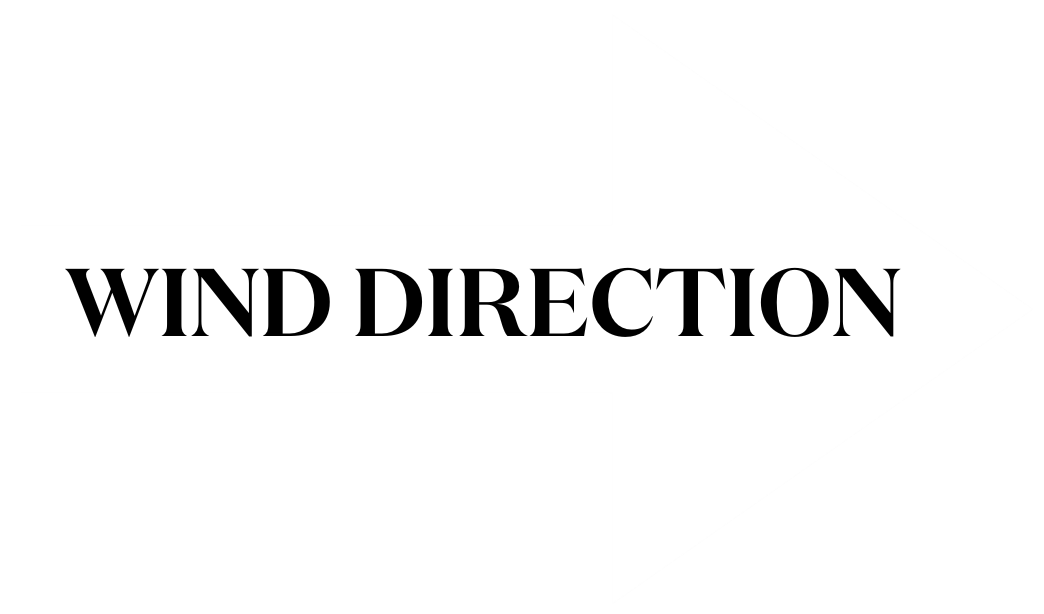
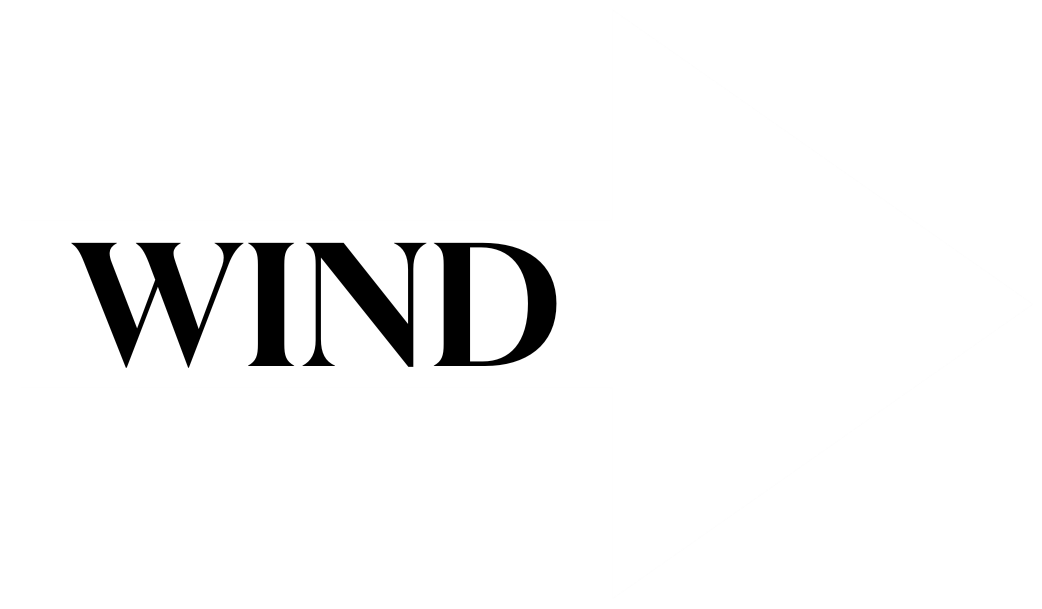
Fixed error where variable wind causes program to fail

Changed region(s): [[0.0614, 0.3744, 0.8599, 0.624]]

diff --git a/update_playlist_metar.py b/update_playlist_metar.py
@@ -149,6 +149,7 @@ def get_metar():
     #    "METAR KLOU 021753Z 06008G22KT 10SM +RA -TSRA FZFG FZHZ FZBR FEW123 OVC456 02/M03 A3029 RMK AO2 SLP261 T00221028 10028 20011 58016")
     # metar = Metar(
     #    "METAR KLOU 021753Z 09008G22KT 10SM  FEW123 OVC456 02/M03 A3029 RMK AO2 SLP261 T00221028 10028 20011 58016")
+    # metar = Metar("KLOU 311453Z VRB05KT 10SM FEW013 BKN044 04/02 A3019 RMK AO2 SLP227 T00440017 51011")
 
     # metar_decoded = metar.string()
     return metar
@@ -183,30 +184,32 @@ def create_image(metar):
     runways = runways.resize((rwy_size_base, int(runways.size[1] * (rwy_size_base / runways.size[0]))))
     img.alpha_composite(runways, rwy_pos_base)
 
-    arrow = Image.open("image_bases/white_arrow.png")
-    arrow = arrow.resize((150, int(arrow.size[1] * (150 / arrow.size[0]))))
-    # Rotates arrow in wind direction, taking into account the way the arrow is already facing
-    arrow = arrow.rotate(-(90 + metar.wind_dir.value()), expand=True)
+    if metar.wind_dir is not None:
 
-    rwy_width, rwy_height = runways.size
-    rwy_pos_x = rwy_pos_base[0] + rwy_width // 2
-    rwy_pos_y = rwy_pos_base[1] + rwy_height // 2
+        arrow = Image.open("image_bases/white_arrow.png")
+        arrow = arrow.resize((150, int(arrow.size[1] * (150 / arrow.size[0]))))
+        # Rotates arrow in wind direction, taking into account the way the arrow is already facing
+        arrow = arrow.rotate(-(90 + metar.wind_dir.value()), expand=True)
 
-    arrow_width, arrow_height = arrow.size
+        rwy_width, rwy_height = runways.size
+        rwy_pos_x = rwy_pos_base[0] + rwy_width // 2
+        rwy_pos_y = rwy_pos_base[1] + rwy_height // 2
 
-    # Calculate the center coordinates of the image to paste
-    arrow_center_x = arrow_width // 2
-    arrow_center_y = arrow_height // 2
+        arrow_width, arrow_height = arrow.size
 
-    # Offsets arrow from center of runway image based on wind direction
-    base_center = [rwy_pos_x - arrow_center_x, rwy_pos_y - arrow_center_y]
-    offset_amt = 330
-    wind_radians = math.radians(metar.wind_dir.value())
-    base_center[0] += round(offset_amt * math.sin(wind_radians))
-    base_center[1] -= round(offset_amt * math.cos(wind_radians))
-    base_center = tuple(base_center)
+        # Calculate the center coordinates of the image to paste
+        arrow_center_x = arrow_width // 2
+        arrow_center_y = arrow_height // 2
 
-    img.alpha_composite(arrow, base_center)
+        # Offsets arrow from center of runway image based on wind direction
+        base_center = [rwy_pos_x - arrow_center_x, rwy_pos_y - arrow_center_y]
+        offset_amt = 330
+        wind_radians = math.radians(metar.wind_dir.value())
+        base_center[0] += round(offset_amt * math.sin(wind_radians))
+        base_center[1] -= round(offset_amt * math.cos(wind_radians))
+        base_center = tuple(base_center)
+
+        img.alpha_composite(arrow, base_center)
 
     font_size = 50
     font = ImageFont.truetype(r"C:/Windows/Fonts/Timesbd.ttf", font_size)
